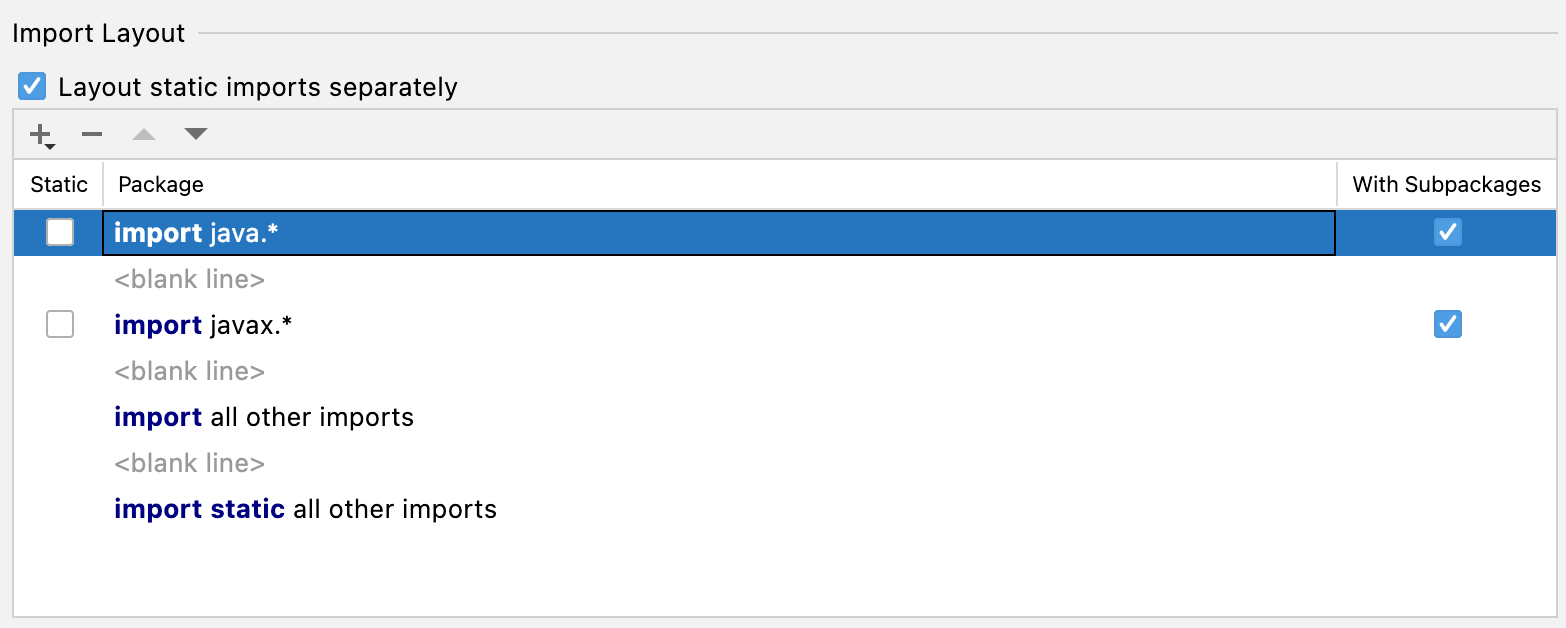
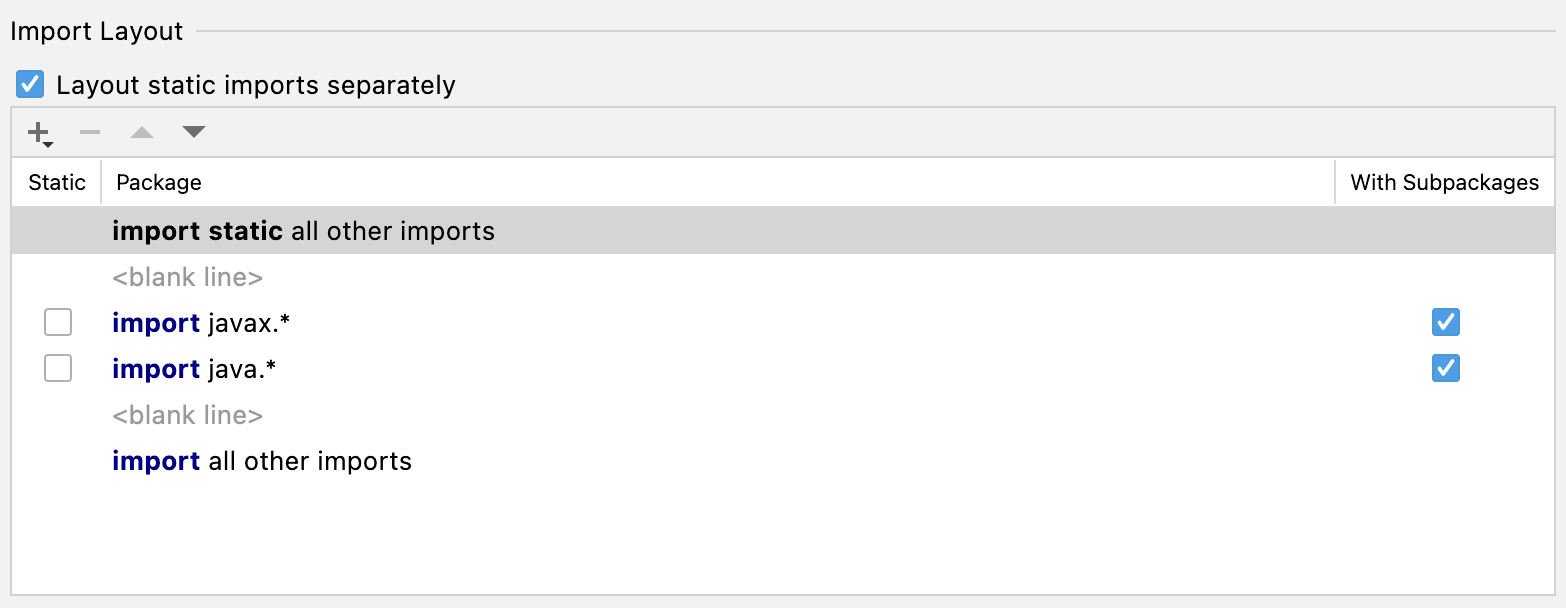
More about IntelliJ settings in the dev doc

diff --git a/sites/manual_dev/docs/dev/intellij.md b/sites/manual_dev/docs/dev/intellij.md
@@ -14,8 +14,8 @@ We want imports to be explicit and complete. For this reason, we avoid wildcard 
 
 Go to _Preferences → Editor → Code Style → Java_ and select the tab _Imports_ in the content area.
 
-Check the field _Use single class import_ and set the _Class count to use import with '*'_ to 9999.
-Also set _Names count to use static import with '*'_ to 9999:
+Check the field _Use single class import_ and set the _Class count to use import with '\*'_ to 9999.
+Also set _Names count to use static import with '\*'_ to 9999:
 
 ![](assets/intellij_imports_single_class_and_wildcards.png){ class="lightbox lightbox-xl" title="No IntelliJ Wildcard Imports" }
 
@@ -25,8 +25,8 @@ with a wildcard.
 
 #### Import Layout
 
-We want all Java source files to have sorted imports such that **java** imports appear on top, 
-followed by **javax** classes and all other classes.
+We want all Java source files to sort imports so that static imports are at the top, 
+followed by **java** classes, **javax** classes, and all other classes.
 
 Go to _Preferences → Editor → Code Style → Java_ and select the tab _Imports_ in the content area.
 
@@ -35,5 +35,5 @@ the following layout:
 
 ![](assets/intellij_import_layout.png){ class="lightbox lightbox-xl" title="IntelliJ Import Layout" }
 
-With this setting, imports of the **java** packages are on top, followed by the **javax** classes and all 
-other classes.
+With this setting, the static imports come first, followed by the imports of the **java** classes, 
+the **javax** classes, and all other classes.
